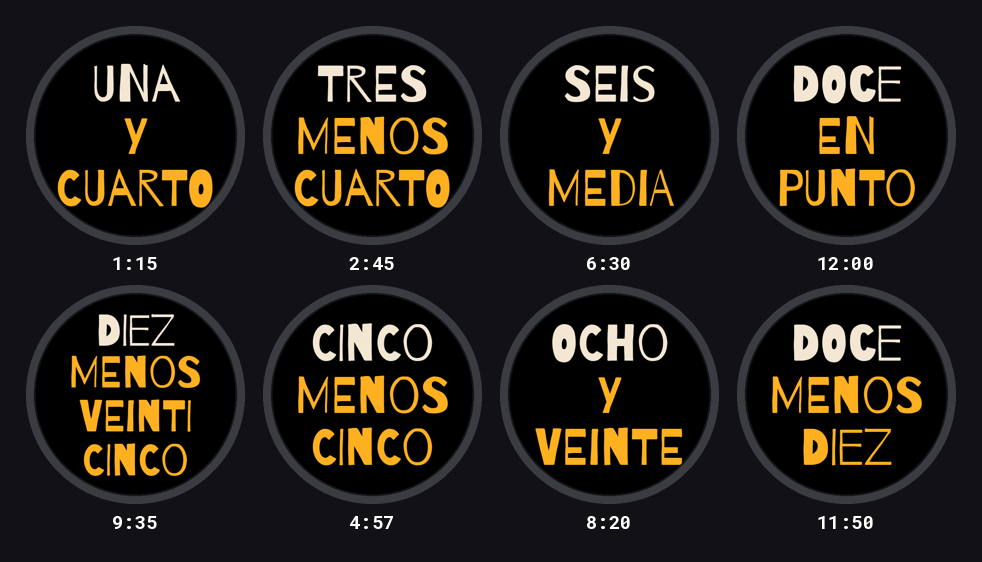
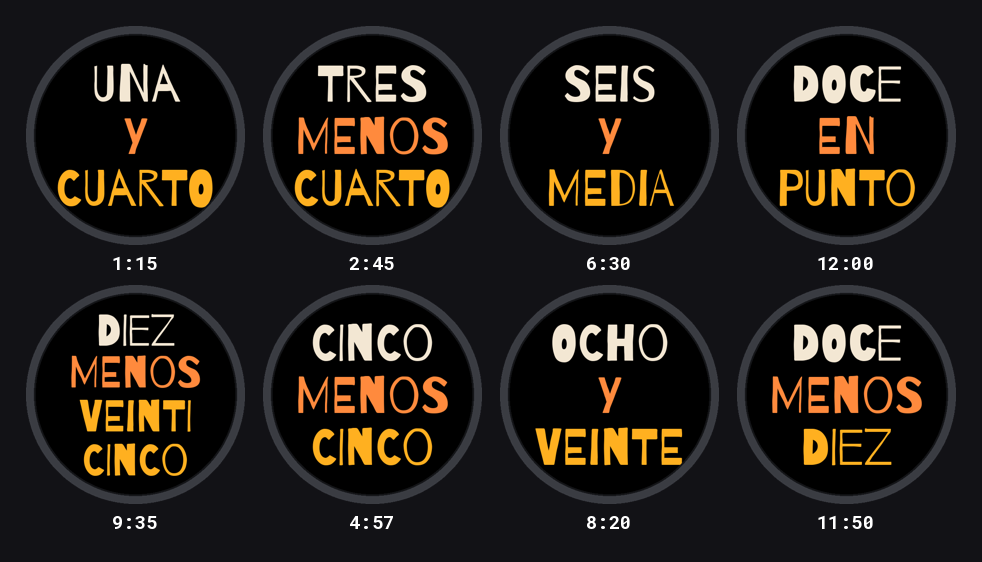
Letras: separate the connector by hue, not by brightness
The connector shared the minutes' amber and the two lines merged. Give it a
toasted orange at the same brightness: it reads as its own word while staying
in the warm axis, and dimming it — the obvious way to differentiate — is the
thing that made it unreadable in the first place.

Claude-Session: https://claude.ai/code/session_01Spqi8874cLT5cy9qNW1EXh

diff --git a/Letras/preview/preview_render.py b/Letras/preview/preview_render.py
@@ -17,7 +17,7 @@ S = 454
 
 # Paleta "hueso y ambar", igual que el .mc
 C_HOUR = (0xF3, 0xE7, 0xD3)
-C_LINK = (0xFF, 0xB0, 0x20)
+C_LINK = (0xFF, 0x8A, 0x3D)   # naranja tostado
 C_MIN = (0xFF, 0xB0, 0x20)
 
 Y3 = (0.240, 0.500, 0.760)

diff --git a/Letras/README.md b/Letras/README.md
@@ -31,15 +31,20 @@ y cero consumo) y toda la tinta en tres niveles del mismo eje cálido.
 | | Color | Por qué |
 |---|---|---|
 | Hora | `0xF3E7D3` hueso | Lo primero que se lee |
-| Enlace | `0xFFB020` ámbar vivo | «Y» frente a «MENOS» son **media hora** |
+| Enlace | `0xFF8A3D` naranja tostado | «Y» frente a «MENOS» son **media hora** |
 | Minutos | `0xFFB020` ámbar vivo | El dato que cambia |
 
 **Todas las líneas van al mismo cuerpo**, enlace incluido. Empezó siendo ámbar
 apagado y más pequeño, tratándolo como gramática de relleno. Es un error: «Y»
 frente a «MENOS» cambia la hora en treinta minutos, o sea que es la palabra
 **más informativa** de las tres, y tenerla atenuada y pequeña la convertía
-justo en la menos legible. Ahora «Y CUARTO» se lee como un bloque, que es como
-se dice.
+justo en la menos legible.
+
+El enlace se separa del ámbar de los minutos **solo por el tono, no por el
+brillo**: los dos están igual de encendidos, así que se distingue sin perder
+legibilidad. Los tres colores caen en el mismo eje cálido, de más apagado a más
+saturado: hueso → naranja → ámbar. Si quieres más separación, `0xFF6F5C`
+(coral) es el siguiente escalón sin salirse de la gama.
 
 ## VEINTICINCO
 

diff --git a/README.md b/README.md
@@ -109,10 +109,11 @@ Dice la hora como la diría una persona: `2:45` es **TRES / MENOS / CUARTO** y
 `6:30` es **SEIS / Y / MEDIA**. Redondea a 5 minutos, va sin artículo y el
 «menos» salta a la hora siguiente, así que a las 9:35 pone DIEZ.
 
-Paleta **hueso y ámbar** sobre negro puro: la hora en hueso, y el enlace y los
-minutos en ámbar vivo. **Todas las líneas van al mismo cuerpo**, enlace
-incluido: «y» frente a «menos» son media hora de diferencia, así que no puede
-ser la línea pequeña. VEINTICINCO se parte en dos líneas porque es casi el
+Paleta **hueso y ámbar** sobre negro puro: hora en hueso, enlace en naranja
+tostado y minutos en ámbar vivo — los tres en el mismo eje cálido y **al mismo
+brillo**, así que el enlace se distingue por el tono sin perder legibilidad.
+**Todas las líneas van al mismo cuerpo**, enlace incluido: «y» frente a
+«menos» son media hora de diferencia, así que no puede ser la línea pequeña. VEINTICINCO se parte en dos líneas porque es casi el
 doble de larga que el resto. El Always-On va al máximo que permite el techo del
 10% de píxeles: 9,28% en el caso peor. Detalle en `Letras/README.md`.
 
